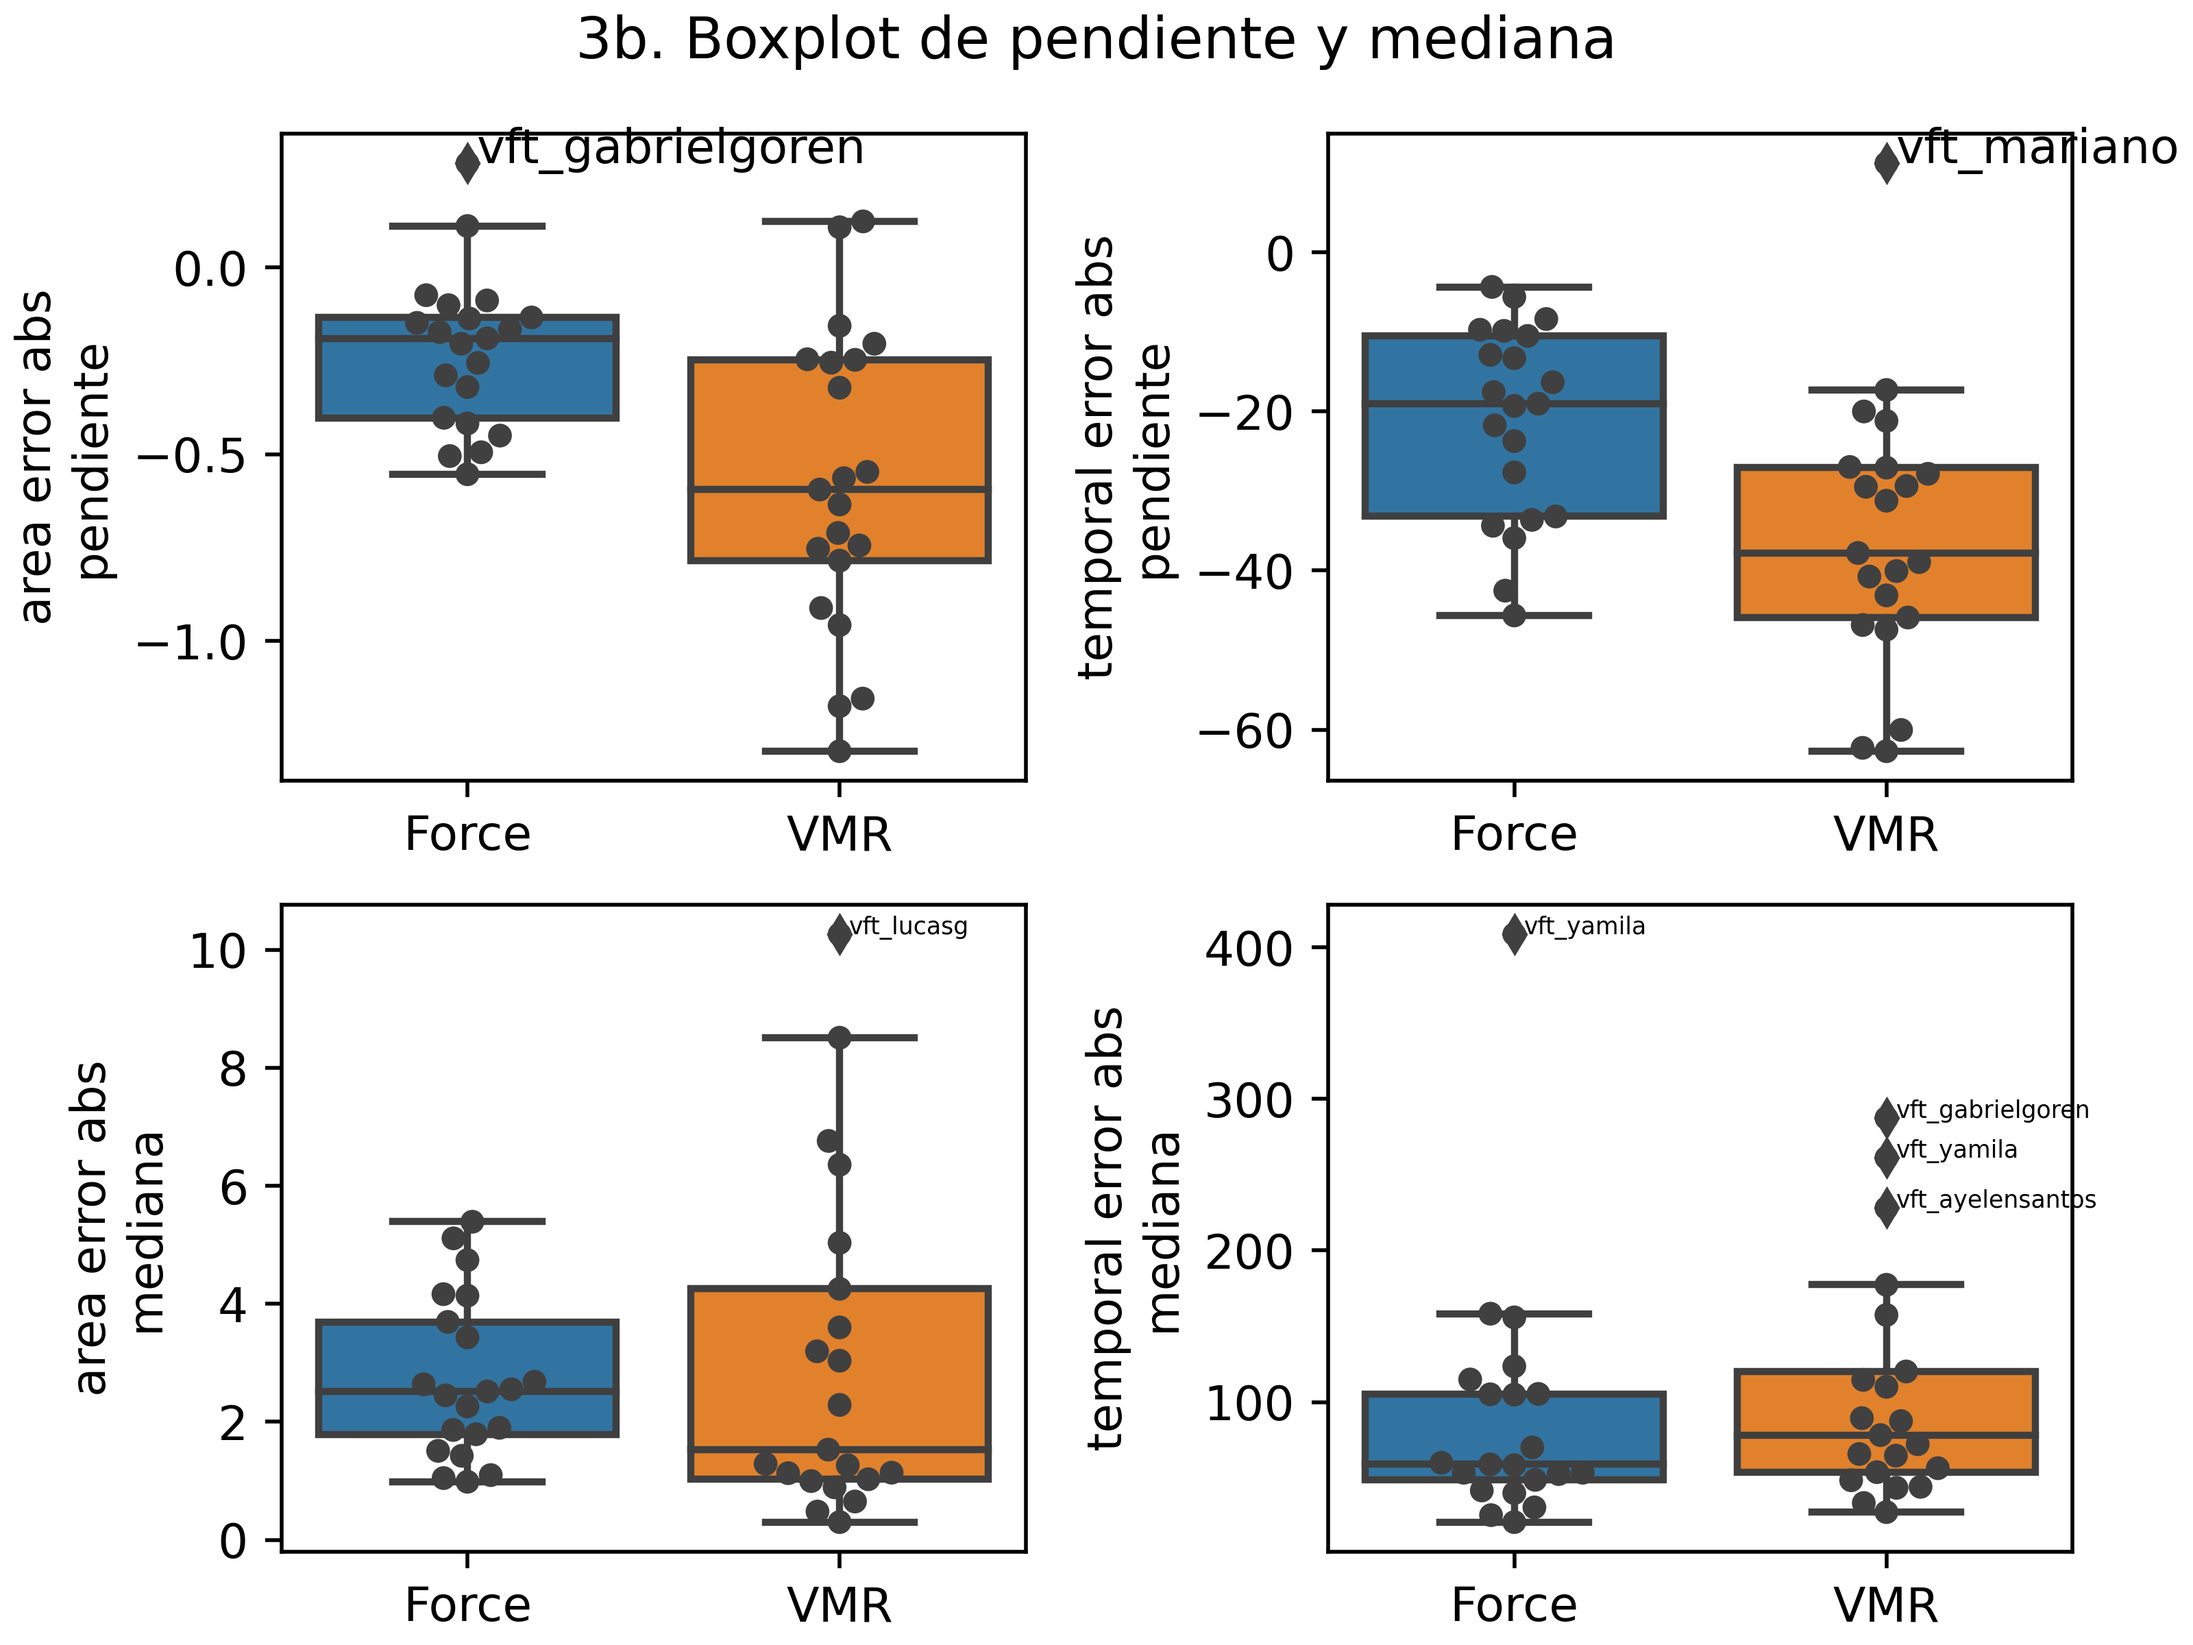
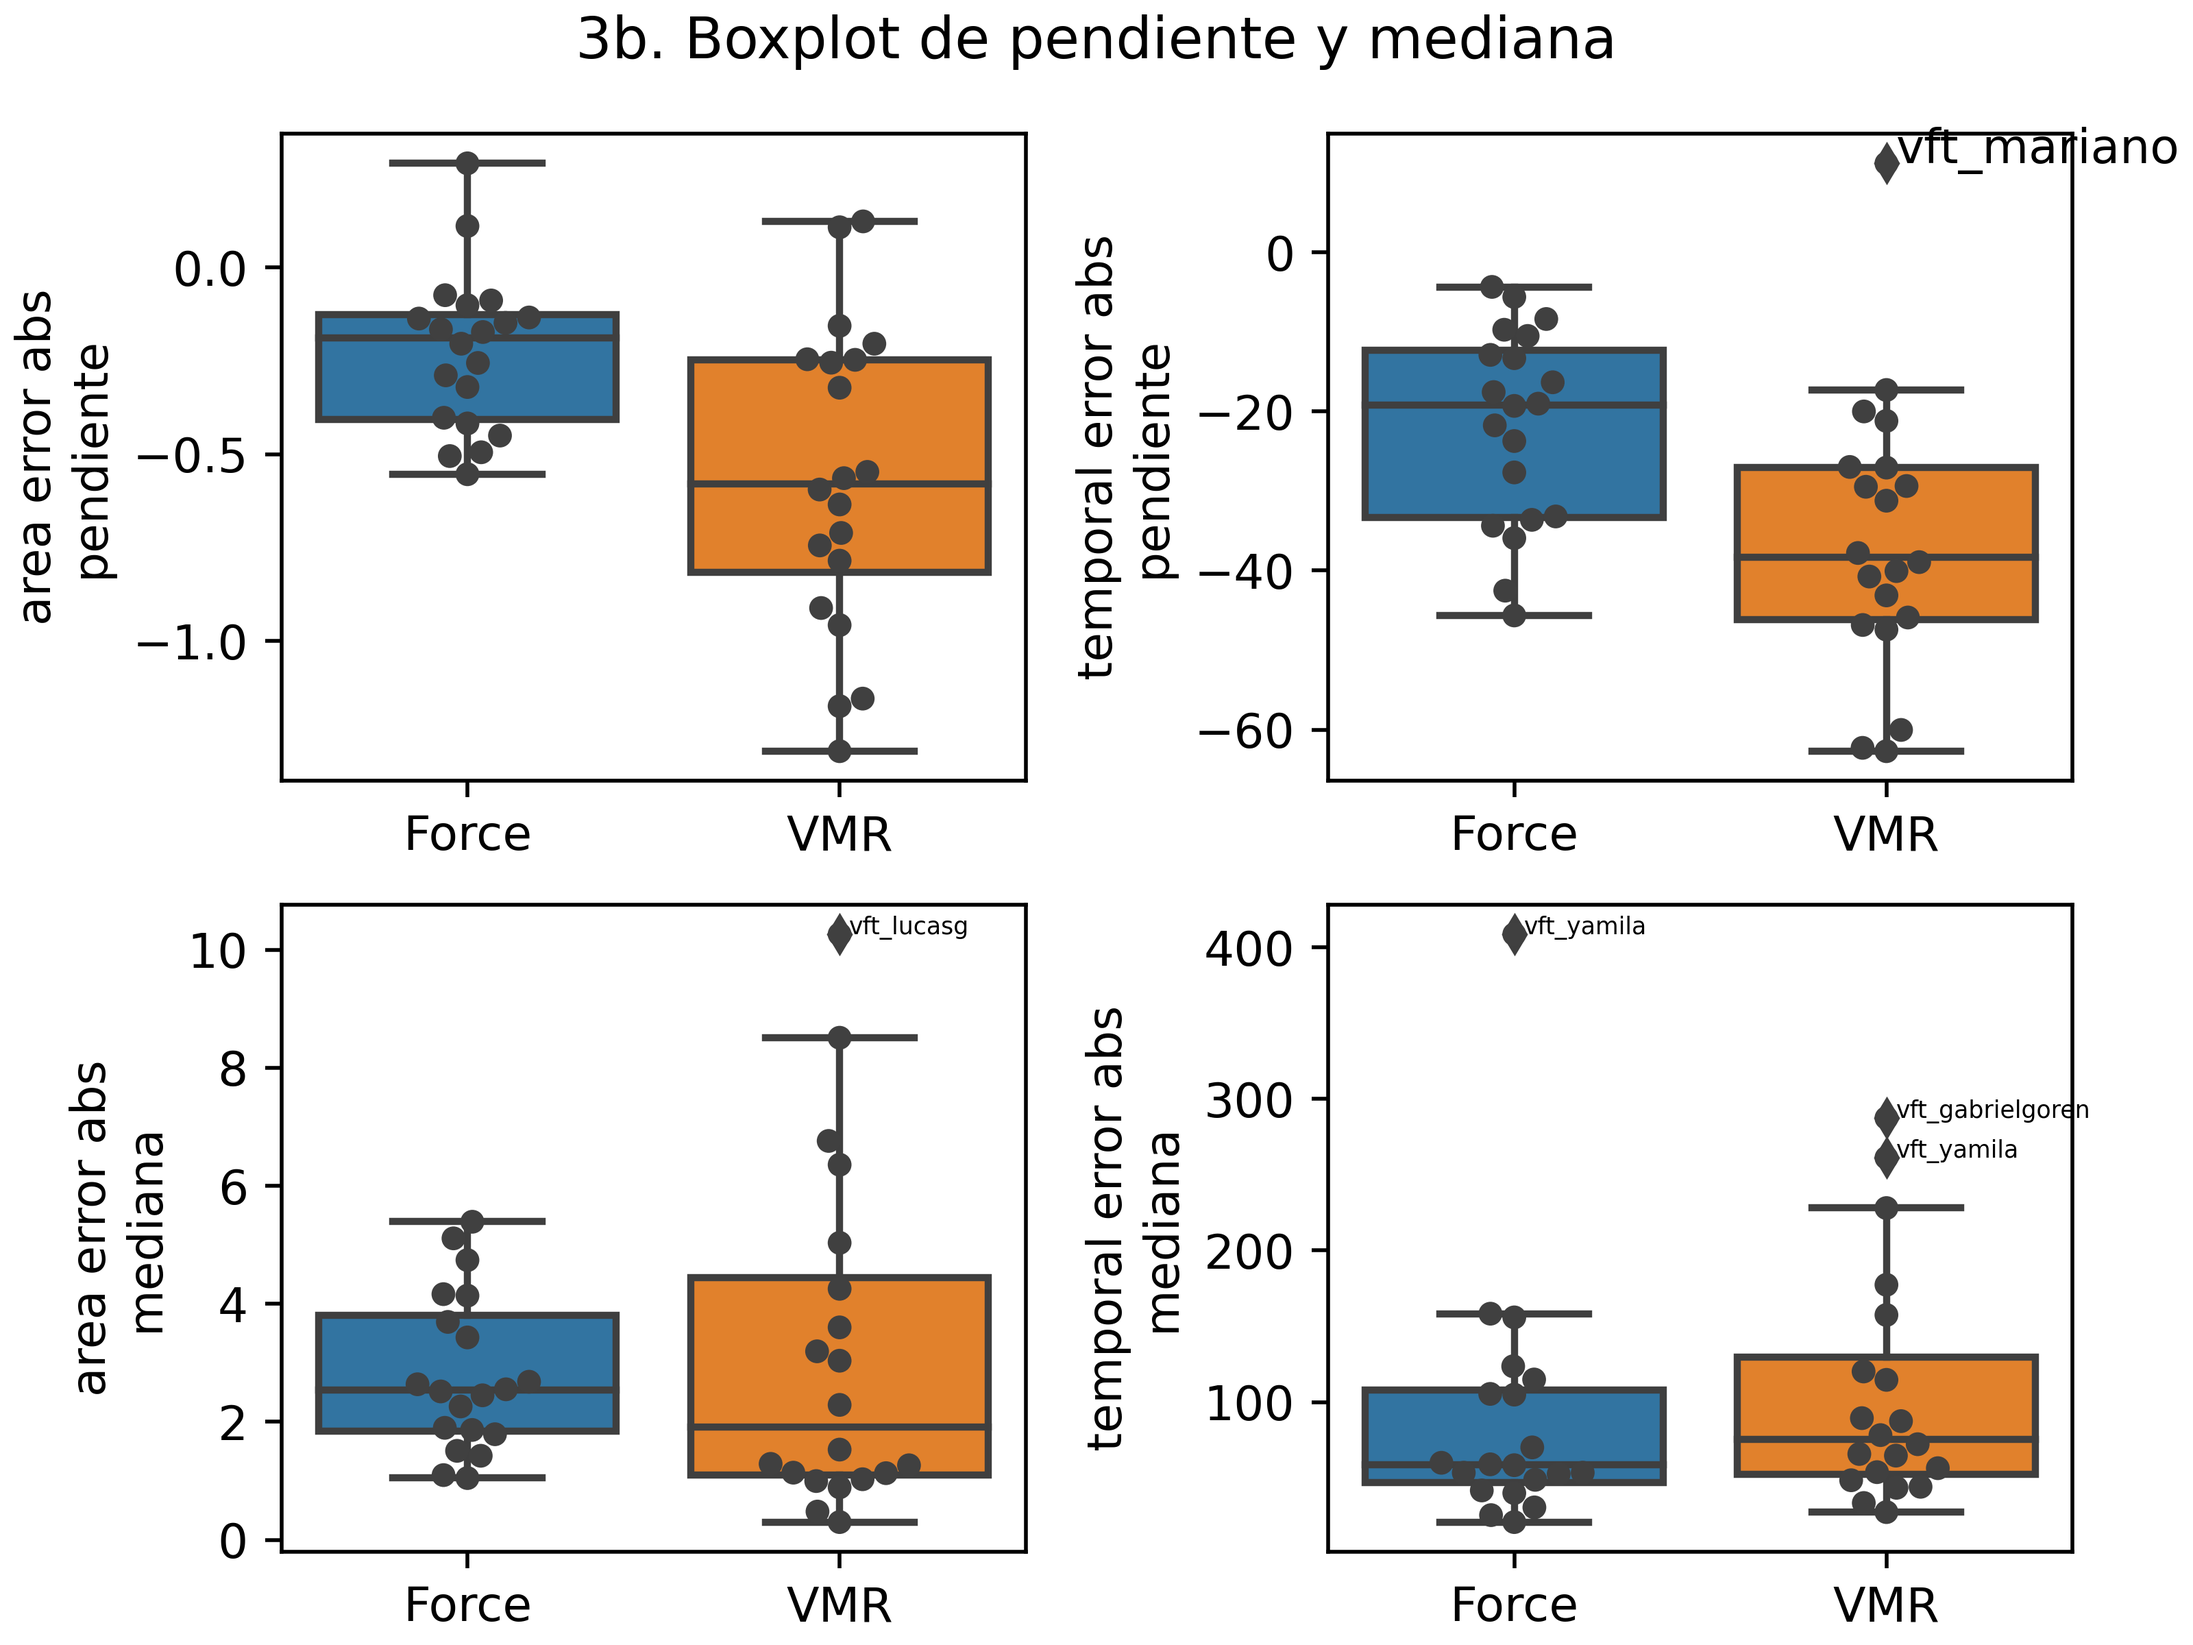
Nuevas imagenes de analisis

diff --git a/app/source/generacion_imagenes.py b/app/source/generacion_imagenes.py
@@ -1,4 +1,5 @@
-import os 
+import os
+# from turtle import color 
 import pandas as pd
 import matplotlib.pyplot as plt
 from analisis_datos import * 
@@ -8,6 +9,8 @@ from matplotlib.pyplot import cm
 file= os.path.join(path, "Merge_analisis.csv")
 df = pd.read_csv(file, index_col=False)
 df = df[df.trialSuccess == 1]
+
+df.drop(df[df.sujeto=='vft_caro'].index, inplace = True)
 
 block_vars = ['blockName']
 metrics = [
@@ -36,6 +39,9 @@ df.x_axis = df.x_axis.astype(int)
 
 def create_axs(row_size=1, col_size=1, sharex=False, sharey=False, figsize=None):
     fig, axs = plt.subplots(row_size, col_size, sharex=sharex, sharey=sharey, constrained_layout=True, figsize=figsize)
+    if row_size*col_size == 1:
+        return fig, axs
+
     for ax in axs.flat:
             plt.setp(ax.get_xticklabels(), fontsize=10)
             plt.setp(ax.get_yticklabels(), fontsize=10)
@@ -47,6 +53,10 @@ def read_file_for_sujeto(sujeto, columns):
     file_path = os.path.join(path, files_dict[sujeto]["path"])
     file = os.path.join(file_path, file)
     df_sujeto = pd.read_csv(file, names=columns, index_col=False)
+    # Fix coordinates (x to -x & *100)
+    df_sujeto['x'] = -df_sujeto['x']*100  # [cm]
+    df_sujeto['y'] = df_sujeto['y']*100   # [cm]
+
     return df_sujeto
 
 def plot_trayectoria_sujeto(df, df_summary, title):
@@ -70,9 +80,7 @@ def plot_trayectoria_sujeto(df, df_summary, title):
             second_beep = float(df_summary.loc[df_summary.trial == trial, "second_beep"])
             group.drop(group[group['timeMs'] < first_beep].index, inplace = True)
             group.drop(group[group['timeMs'] > second_beep].index, inplace = True)
-            # Fix coordinates (x to -x & *100)
-            group['x'] = -group['x']*100  # [cm]
-            group['y'] = group['y']*100   # [cm]
+
             # Plot
             group.plot(x='y', y='x', ax=ax, legend=False)
         # Line colors for trayectory
@@ -414,6 +422,8 @@ def get_df_perturbacion(df_summary, outliers_dict, perturbacion, trials_adaptaci
         
 
 
+
+
 '''
 1. Imagenes sujeto vmr primero
 a. Grafico de las trayectorias del sujeto (adaptacion, perturbacion y after effects)
@@ -707,3 +717,141 @@ def plot_diferencias_significativas_mediana(df_vmr, df_force, title, metrics, sh
     plt.savefig(os.path.join(path, f"{title.replace(' ', '_')}.png") , dpi = 500)
 
 plot_diferencias_significativas_mediana(df_vmr, df_force, title, metrics)
+
+from plot.plot import plot_rapidez, distance, 
+title = '9. Rapidez'
+def plot_rapidez(df_perturbacion, bloque_efectivo, plot_trials, title='Plot rapidez', bucket_size_ms = 5):
+    fig, axs = create_axs(row_size=len(plot_trials), sharey='all', sharex='all')
+    fig.suptitle(title)
+    #
+    for sujeto in df_perturbacion.sujeto.unique():
+        df_sujeto = df_perturbacion[(df_perturbacion.sujeto == sujeto)].copy()
+        df_sujeto = df_sujeto[df_sujeto.bloque_efectivo == bloque_efectivo]
+        df_sujeto = df_sujeto[df_sujeto.blockTrialSuccessN.isin(plot_trials)]
+        #
+        df_sujeto_full = read_file_for_sujeto(sujeto, columns)
+        df_sujeto_full = df_sujeto_full[df_sujeto_full.trial.isin(df_sujeto.trial.unique())]
+        #
+        for i in range(len(plot_trials)):
+            blockTrialSuccessN = plot_trials[i]
+            df_trial = df_sujeto[df_sujeto.blockTrialSuccessN == blockTrialSuccessN]
+            trial, = df_trial.trial.unique()
+            #
+            # Keep only time between beeps
+            first_beep, = df_trial.first_beep.unique()
+            second_beep, = df_trial.second_beep.unique()
+            df_trial_full = df_sujeto_full[df_sujeto_full.trial == trial].copy()
+            df_trial_full.drop(df_trial_full[df_trial_full['timeMs'] < first_beep].index, inplace = True)
+            df_trial_full.drop(df_trial_full[df_trial_full['timeMs'] > second_beep].index, inplace = True)
+            #
+            df_trial_full["timeMsAbs"] = df_trial_full.timeMs - df_trial_full.timeMs.min()
+            df_trial_full["timeMsAbsBucket"] = (df_trial_full.timeMsAbs // bucket_size_ms).astype(int)
+            grouped_ms = df_trial_full.groupby("timeMsAbsBucket")
+            time = []
+            v = []
+            for (timeMsAbsBucket), group_ms in grouped_ms:
+                d = distance(group_ms)
+                dt = (group_ms.timeMsAbs.max() - group_ms.timeMsAbs.min())/1000
+                if dt != 0:
+                    time += [timeMsAbsBucket * bucket_size_ms]
+                    v += [d/dt]
+            #
+            ax = axs[i]
+            ax.plot(time, v)
+            ax.set_ylabel('Rapidez [cm/s]')
+            ax.set_xlabel('Tiempo [ms]')
+    plt.savefig(os.path.join(path, f"{title.replace(' ', '_')}.png") , dpi = 500) 
+
+plot_rapidez(df_vmr, 'perturbacion', plot_trials=[1, 2, 20], title=title+' perturbacion VMR')
+plot_rapidez(df_vmr, 'aftereffects', plot_trials=[1, 2, 20], title=title+' aftereffects VMR')
+plot_rapidez(df_force, 'perturbacion', plot_trials=[1, 2, 20], title=title+' perturbacion fuerza')
+plot_rapidez(df_force, 'aftereffects', plot_trials=[1, 2, 20], title=title+' aftereffects fuerza')
+
+
+def plot_error_espacial_temporal(df_perturbacion, bloque_efectivo, ax, metrics, color, label=None, title='Error espacial y temporal'):
+    # ax.axis('equal')
+    # ax.set_box_aspect(1)
+    df_bloque = df_perturbacion[df_perturbacion.bloque_efectivo == bloque_efectivo].copy()
+    median_df = df_bloque.groupby("x_axis").median()
+    ax.plot(median_df[metrics[0][0]], median_df[metrics[1][0]], label=label, color=color)
+    ax.scatter(median_df[metrics[0][0]], median_df[metrics[1][0]], s=1, color=color)
+    ax.set_xlabel(metrics[0][1])
+    ax.set_ylabel(metrics[1][1])
+    plt.legend(loc="upper right")
+    plt.savefig(os.path.join(path, f"{title.replace(' ', '_')}.png") , dpi = 500)
+
+
+title = '10. Error de area absoluto y temporal'
+fig, axs = create_axs(col_size=1)
+fig.suptitle(title)
+metrics = [('area_error_abs', 'Error de area absoluto'), ('temporal_error', 'Error temporal')]
+plot_error_espacial_temporal(df_vmr, 'perturbacion', axs, metrics, color='limegreen', label="perturbacion VMR", title=title)
+plot_error_espacial_temporal(df_vmr, 'aftereffects', axs, metrics, color='darkgreen', label="aftereffects VMR", title=title)
+plot_error_espacial_temporal(df_force, 'perturbacion', axs, metrics, color='orchid', label="perturbacion fuerza", title=title)
+plot_error_espacial_temporal(df_force, 'aftereffects', axs, metrics, color='purple', label="aftereffects fuerza", title=title)
+
+title = '10. Error de area signado y temporal'
+fig, axs = create_axs()
+fig.suptitle(title)
+metrics = [('area_error', 'Error de area signado'), ('temporal_error', 'Error temporal')]
+plot_error_espacial_temporal(df_vmr, 'perturbacion', axs, metrics, color='limegreen', label="perturbacion VMR", title=title)
+plot_error_espacial_temporal(df_vmr, 'aftereffects', axs, metrics, color='darkgreen', label="aftereffects VMR", title=title)
+plot_error_espacial_temporal(df_force, 'perturbacion', axs, metrics, color='orchid', label="perturbacion fuerza", title=title)
+plot_error_espacial_temporal(df_force, 'aftereffects', axs, metrics, color='purple', label="aftereffects fuerza", title=title)
+
+title = '11. Posicion y velocidad para un sujeto'
+sujetos_vmr = list(df_vmr.sujeto.unique())
+sujetos_force = list(df_force.sujeto.unique())
+sujetos_ambos = [i for i in sujetos_vmr if i is in sujetos_force]
+sujeto = sujetos_ambos[0]
+fig, axs = create_axs()
+
+
+from plot.plot_error import rotate_trial_data
+def posicion_y_velocidad_trials(df_perturbacion, sujeto, bloque_efectivo, plot_trials, label, colors, ax, bucket_size_ms=5, title='Posicion y velocidad para un sujeto'):
+    df_sujeto = df_perturbacion[(df_perturbacion.sujeto == sujeto)].copy()
+    df_sujeto = df_sujeto[df_sujeto.bloque_efectivo == bloque_efectivo]
+    df_sujeto = df_sujeto[df_sujeto.blockTrialSuccessN.isin(plot_trials)]
+    df_sujeto_full = read_file_for_sujeto(sujeto, columns)
+    df_sujeto_full = df_sujeto_full[df_sujeto_full.trial.isin(df_sujeto.trial.unique())]
+    for i in range(len(plot_trials)):
+        blockTrialSuccessN = plot_trials[i]
+        df_trial = df_sujeto[df_sujeto.blockTrialSuccessN == blockTrialSuccessN]
+        trial, = df_trial.trial.unique()
+        #
+        # Keep only time between beeps
+        first_beep, = df_trial.first_beep.unique()
+        second_beep, = df_trial.second_beep.unique()
+        df_trial_full = df_sujeto_full[df_sujeto_full.trial == trial].copy()
+        df_trial_full.drop(df_trial_full[df_trial_full['timeMs'] < first_beep].index, inplace = True)
+        df_trial_full.drop(df_trial_full[df_trial_full['timeMs'] > second_beep].index, inplace = True)
+        #
+        df_trial_full["timeMsAbs"] = df_trial_full.timeMs - df_trial_full.timeMs.min()
+        df_trial_full["timeMsAbsBucket"] = (df_trial_full.timeMsAbs // bucket_size_ms).astype(int)
+        # Rotate
+        angle, = df_trial_full.angle.unique()
+        df_trial_full = rotate_trial_data(df_trial_full, angle)
+        grouped_ms = df_trial_full.groupby("timeMsAbsBucket")
+        distance_transversal = []
+        v = []
+        for (timeMsAbsBucket), group_ms in grouped_ms:
+            d = distance(group_ms)
+            dt = (group_ms.timeMsAbs.max() - group_ms.timeMsAbs.min())/1000
+            if dt != 0:
+                v += [d/dt]
+                distance_transversal += [group_ms.y.mean()]
+        #
+        ax.plot(distance_transversal, v, color=colors[i], label=f"{label} trial {blockTrialSuccessN}")
+        ax.set_ylabel('Rapidez [cm/s]')
+        ax.set_xlabel('Distancia trasnversal [cm]')
+    plt.legend(loc="upper right")
+    plt.savefig(os.path.join(path, f"{title.replace(' ', '_')}.png") , dpi = 500) 
+
+colors = ['orchid', 'darkorchid', 'purple']
+posicion_y_velocidad_trials(df_vmr, sujeto, 'perturbacion', ax=axs, plot_trials=[1, 2, 20], label='VMR', colors=colors, title=title)
+
+colors = ['lime', 'limegreen', 'darkgreen']
+posicion_y_velocidad_trials(df_force, sujeto, 'perturbacion', ax=axs, plot_trials=[1, 2, 20], label='fuerza', colors=colors, title=title)
+
+# plt.show()
+
